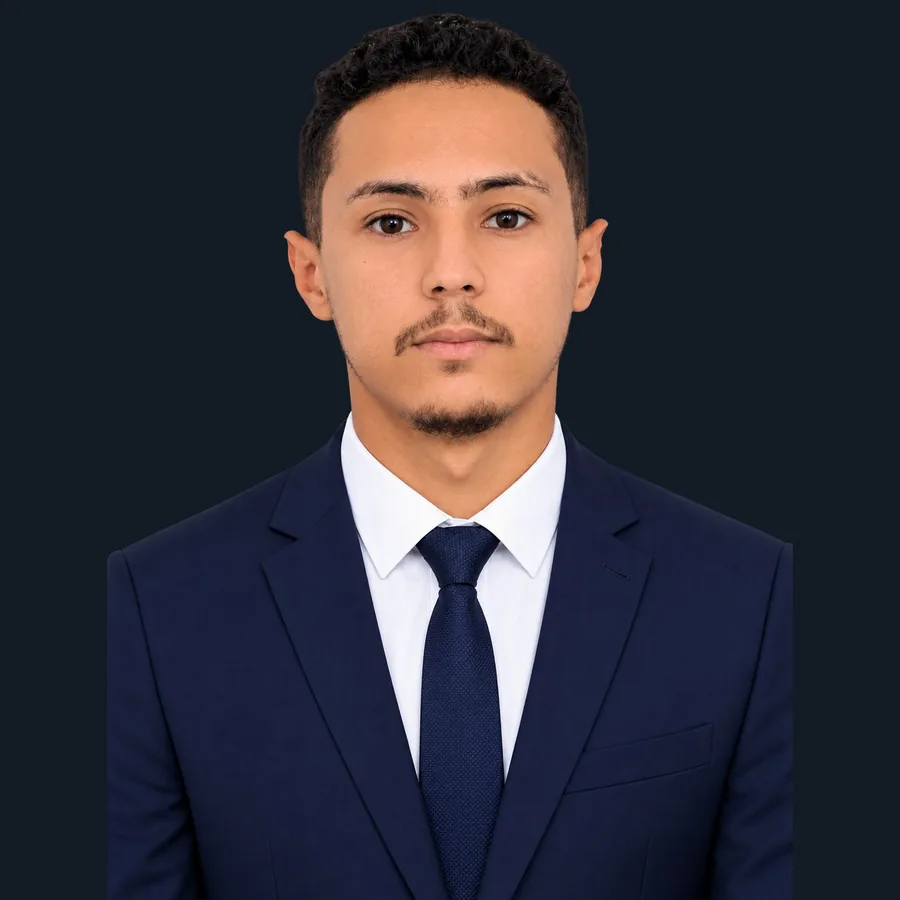
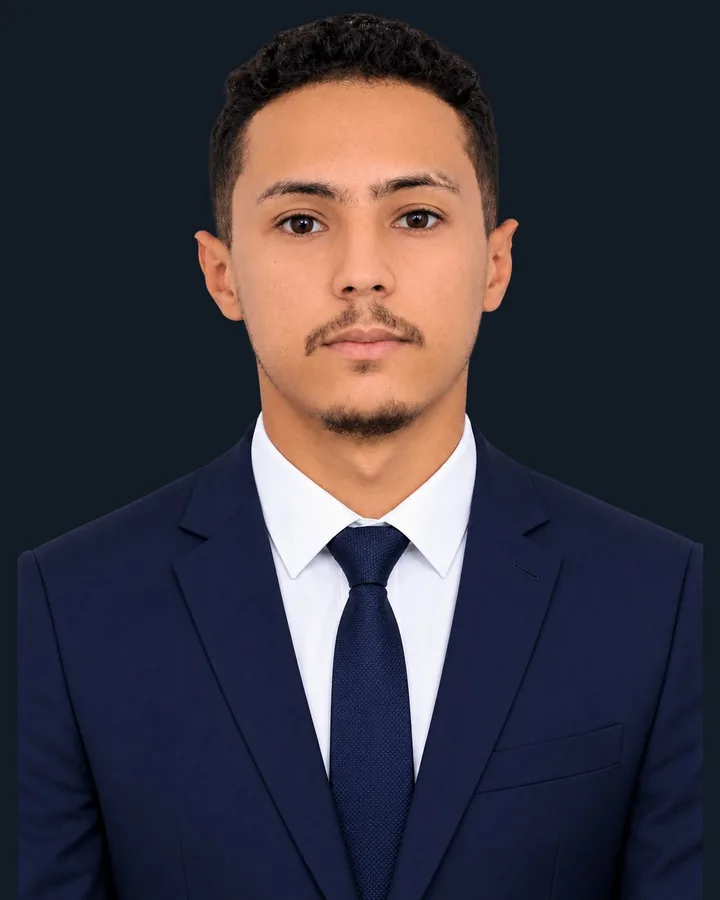
perf: pin terminal intro height (CLS), raise LCP portrait priority
Mobile Lighthouse on the live site: perf 79, CLS 0.137. The terminal
intro grew its window from 246px to 395px while lines typed in, moving the
centred overlay ~74px up the viewport (measured) for ~0.10 CLS on every
first visit. The body now reserves 21.875rem (349px of content at a 16px
root; rem keeps it proportional if the default font size changes), so the
window is the same size from the first frame.
The about portrait, the mobile LCP resource, now loads with
fetchpriority="high"; me.webp is re-cropped to the 4:5 ratio the plate
renders at (720x900) instead of a square whose sides object-cover threw
away.

diff --git a/src/app/components/shared/terminal-intro/terminal-intro.component.ts b/src/app/components/shared/terminal-intro/terminal-intro.component.ts
@@ -71,7 +71,12 @@ import { TranslateService, TranslatePipe } from '@ngx-translate/core';
       font-family: 'JetBrains Mono', 'Fira Code', monospace;
       font-size: 1rem;
       color: #e6edf3;
-      min-height: 200px;
+      /* Sized to the finished run (7 line rows + progress bar, measured at
+         349px on a 16px root) so the centred window never grows while lines
+         type in. The growth moved the window ~74px up the viewport and cost
+         ~0.10 CLS on every first visit. rem keeps it correct if the user
+         scales the default font size. */
+      min-height: 21.875rem;
       display: flex; flex-direction: column;
     }
     .terminal-line { display: flex; align-items: flex-start; gap: 10px; margin: 6px 0; animation: line-in .3s ease both; }

diff --git a/src/app/components/about/about.component.html b/src/app/components/about/about.component.html
@@ -118,7 +118,7 @@ ambient   — the seven tech chips drift around the console
                   [alt]="'A11Y.PROFILE_PHOTO' | translate"
                   class="lab-plate-photo h-full w-full object-cover"
                   width="360" height="450"
-                  loading="eager" decoding="async">
+                  loading="eager" fetchpriority="high" decoding="async">
 
                 <div class="lab-plate-wash pointer-events-none absolute inset-0" aria-hidden="true"></div>
               </figure>
